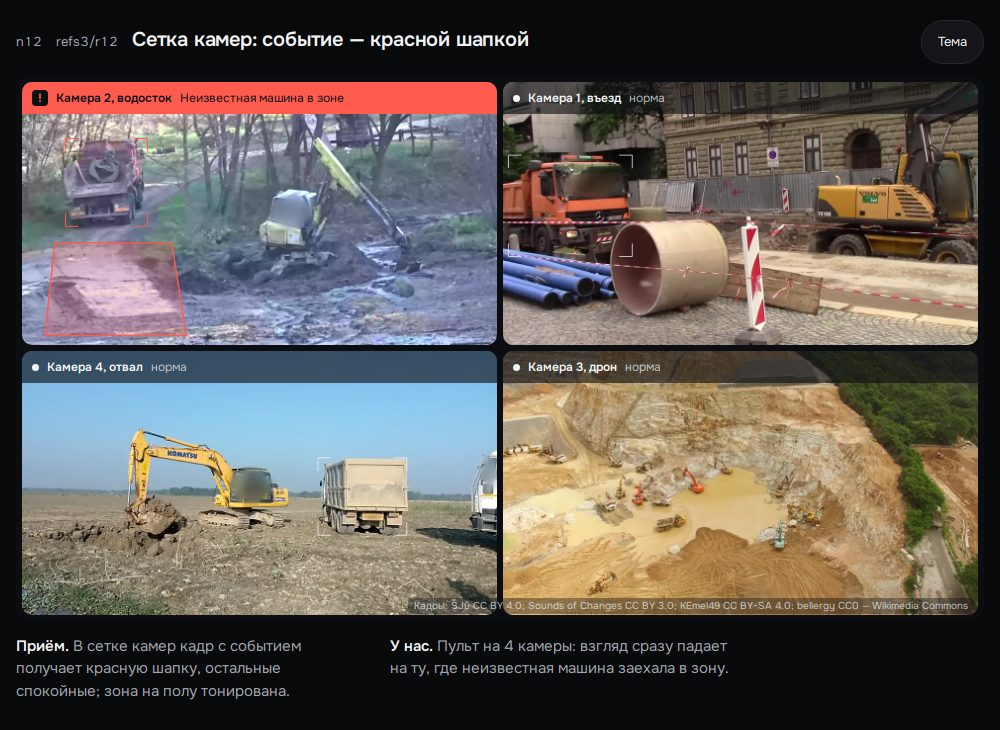
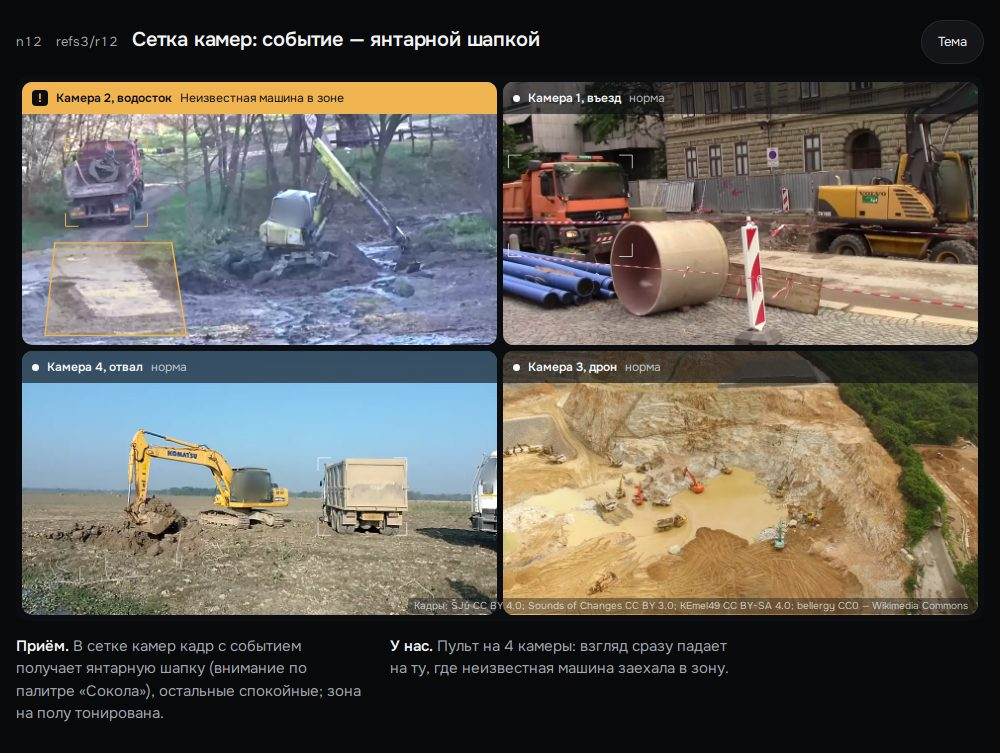
sokol-1f98f0fd: пульт — единая галерея «берём / нет»

diff --git a/sokol-1f98f0fd/pult/refs3/n12.html b/sokol-1f98f0fd/pult/refs3/n12.html
@@ -5,9 +5,9 @@
 <link href="https://fonts.googleapis.com/css2?family=Onest:wght@300..700&display=swap" rel="stylesheet">
 <link rel="stylesheet" href="base.css"></head>
 <body><main class="frag">
-<header class="fh"><span class="ref">n12</span><span class="ref">refs3/r12</span><h1>Сетка камер: событие — красной шапкой</h1><button class="theme" type="button" aria-label="Сменить тему">Тема</button></header>
-<figure class="stage "><style>.stage>.g4{display:grid;grid-template-columns:1fr 1fr;grid-template-rows:1fr 1fr;gap:6px;padding:6px;background:var(--s-bg)}.tl{position:relative;border-radius:10px;overflow:hidden;background:var(--s-bg)}.tv{position:absolute;inset:0}.tv img,.tv svg{position:absolute;inset:0;width:100%;height:100%;object-fit:cover}.th{position:absolute;z-index:2;left:0;right:0;top:0;display:flex;gap:8px;align-items:center;padding:7px 10px;background:var(--s-glass);font-size:12px;color:var(--s-ink-2)}.th b{color:var(--s-ink);font-weight:600}.th .d{width:7px;height:7px;border-radius:50%;background:var(--s-ink)}.th .w{display:inline-grid;place-items:center;width:16px;height:16px;border-radius:4px;background:var(--s-bg);color:var(--s-alert);font:700 12px/1 "Onest",sans-serif;font-style:normal}.al .th{background:var(--s-alert);color:var(--s-bg)}.al .th b{color:var(--s-bg)}</style><div class="layer g4"><div class="tl al"><div class="th"><i class="w">!</i><b>Камера 2, водосток</b><span>Неизвестная машина в зоне</span></div><div class="tv"><img src="img/forest.webp" alt=""><svg viewBox="0 0 960 540"><polygon points="40.0,520.0 330.0,520.0 300.0,330.0 60.0,330.0" class="fal2" /><polygon points="40.0,520.0 330.0,520.0 300.0,330.0 60.0,330.0" class="ka" style="stroke-width:3"/><path d="M82,142V116H108 M224,116H250V142 M250,270V296H224 M108,296H82V270" class="ka"/></svg></div></div><div class="tl"><div class="th"><span class="d"></span><b>Камера 1, въезд</b><span>норма</span></div><div class="tv"><img src="img/site.webp" alt=""><svg viewBox="0 0 960 540"><path d="M4,176V150H30 M232,150H258V176 M258,332V358H232 M30,358H4V332" class="kw"/></svg></div></div><div class="tl"><div class="th"><span class="d"></span><b>Камера 4, отвал</b><span>норма</span></div><div class="tv"><img src="img/field.webp" alt=""><svg viewBox="0 0 960 540"><path d="M600,245V219H626 M756,219H782V245 M782,352V378H756 M626,378H600V352" class="kw"/></svg></div></div><div class="tl"><div class="th"><span class="d"></span><b>Камера 3, дрон</b><span>норма</span></div><div class="tv"><img src="img/drone.webp" alt=""><svg viewBox="0 0 960 540"></svg></div></div></div><figcaption class="lic">Кадры: ŠJů CC BY 4.0; Sounds of Changes CC BY 3.0; KEmel49 CC BY-SA 4.0; bellergy CC0 — Wikimedia Commons</figcaption></figure>
-<section class="note"><p><b>Приём.</b> В сетке камер кадр с событием получает красную шапку, остальные спокойные; зона на полу тонирована.</p><p><b>У нас.</b> Пульт на 4 камеры: взгляд сразу падает на ту, где неизвестная машина заехала в зону.</p></section>
+<header class="fh"><span class="ref">n12</span><span class="ref">refs3/r12</span><h1>Сетка камер: событие — янтарной шапкой</h1><button class="theme" type="button" aria-label="Сменить тему">Тема</button></header>
+<figure class="stage "><style>.stage>.g4{display:grid;grid-template-columns:1fr 1fr;grid-template-rows:1fr 1fr;gap:6px;padding:6px;background:var(--s-bg)}.tl{position:relative;border-radius:10px;overflow:hidden;background:var(--s-bg)}.tv{position:absolute;inset:0}.tv img,.tv svg{position:absolute;inset:0;width:100%;height:100%;object-fit:cover}.th{position:absolute;z-index:2;left:0;right:0;top:0;display:flex;gap:8px;align-items:center;padding:7px 10px;background:var(--s-glass);font-size:12px;color:var(--s-ink-2)}.th b{color:var(--s-ink);font-weight:600}.th .d{width:7px;height:7px;border-radius:50%;background:var(--s-ink)}.th .w{display:inline-grid;place-items:center;width:16px;height:16px;border-radius:4px;background:var(--s-bg);color:var(--s-alert);font:700 12px/1 "Onest",sans-serif;font-style:normal}.tl.al{--s-alert:#F0B451;--s-alert-soft:rgba(240,180,81,.24)}.al .th{background:var(--s-alert);color:var(--s-bg)}.al .th b{color:var(--s-bg)}</style><div class="layer g4"><div class="tl al"><div class="th"><i class="w">!</i><b>Камера 2, водосток</b><span>Неизвестная машина в зоне</span></div><div class="tv"><img src="img/forest.webp" alt=""><svg viewBox="0 0 960 540"><polygon points="40.0,520.0 330.0,520.0 300.0,330.0 60.0,330.0" class="fal2" /><polygon points="40.0,520.0 330.0,520.0 300.0,330.0 60.0,330.0" class="ka" style="stroke-width:3"/><path d="M82,142V116H108 M224,116H250V142 M250,270V296H224 M108,296H82V270" class="ka"/></svg></div></div><div class="tl"><div class="th"><span class="d"></span><b>Камера 1, въезд</b><span>норма</span></div><div class="tv"><img src="img/site.webp" alt=""><svg viewBox="0 0 960 540"><path d="M4,176V150H30 M232,150H258V176 M258,332V358H232 M30,358H4V332" class="kw"/></svg></div></div><div class="tl"><div class="th"><span class="d"></span><b>Камера 4, отвал</b><span>норма</span></div><div class="tv"><img src="img/field.webp" alt=""><svg viewBox="0 0 960 540"><path d="M600,245V219H626 M756,219H782V245 M782,352V378H756 M626,378H600V352" class="kw"/></svg></div></div><div class="tl"><div class="th"><span class="d"></span><b>Камера 3, дрон</b><span>норма</span></div><div class="tv"><img src="img/drone.webp" alt=""><svg viewBox="0 0 960 540"></svg></div></div></div><figcaption class="lic">Кадры: ŠJů CC BY 4.0; Sounds of Changes CC BY 3.0; KEmel49 CC BY-SA 4.0; bellergy CC0 — Wikimedia Commons</figcaption></figure>
+<section class="note"><p><b>Приём.</b> В сетке камер кадр с событием получает янтарную шапку (внимание по палитре «Сокола»), остальные спокойные; зона на полу тонирована.</p><p><b>У нас.</b> Пульт на 4 камеры: взгляд сразу падает на ту, где неизвестная машина заехала в зону.</p></section>
 </main>
 <script>(()=>{const r=document.documentElement,q=new URLSearchParams(location.search).get('theme');if(q)r.dataset.theme=q;
 document.querySelector('.theme').onclick=()=>{const d=r.dataset.theme||(matchMedia('(prefers-color-scheme: dark)').matches?'dark':'light');r.dataset.theme=d==='dark'?'light':'dark'};

diff --git a/sokol-1f98f0fd/pult/index.html b/sokol-1f98f0fd/pult/index.html
@@ -132,9 +132,9 @@ dialog::backdrop{background:rgba(10,11,13,.92)}
 <label class="mixf" hidden><span>С чем совместить</span><input type="text" autocomplete="off" placeholder="например m40 или v4" enterkeyhint="done"></label>
 </div></article></div></section>
 <section id="s-strong"><h2>Мини по референсам <small>сначала 15 сильных</small></h2><div class="grid"><article class="card" id="c-n12" data-id="n12">
-<div class="media"><button type="button" class="shot" data-full="refs3/shots/n12.jpg" aria-label="Снимок крупно"><img loading="lazy" decoding="async" src="refs3/shots/n12.jpg" width="1000" height="730" alt="Снимок n12: Сетка камер: событие — красной шапкой"></button><div class="refs"><div class="rths"><button type="button" class="rth" data-full="refimg/refs3/r12.webp" data-cap="MANTIS · сетка камер, событие красным заголовком" aria-label="Референс r12 крупно"><img loading="lazy" decoding="async" src="refimg/refs3/r12.webp" width="800" height="600" alt="Референс r12: MANTIS · сетка камер, событие красным заголовком"></button></div><p class="rcap"><span>референс</span>MANTIS · сетка камер, событие красным заголовком</p></div></div>
+<div class="media"><button type="button" class="shot" data-full="refs3/shots/n12.jpg" aria-label="Снимок крупно"><img loading="lazy" decoding="async" src="refs3/shots/n12.jpg" width="1000" height="753" alt="Снимок n12: Сетка камер: событие — янтарной шапкой"></button><div class="refs"><div class="rths"><button type="button" class="rth" data-full="refimg/refs3/r12.webp" data-cap="MANTIS · сетка камер, событие красным заголовком" aria-label="Референс r12 крупно"><img loading="lazy" decoding="async" src="refimg/refs3/r12.webp" width="800" height="600" alt="Референс r12: MANTIS · сетка камер, событие красным заголовком"></button></div><p class="rcap"><span>референс</span>MANTIS · сетка камер, событие красным заголовком</p></div></div>
 <div class="body"><div class="head"><span class="id">n12</span></div>
-<h3>Сетка камер: событие — красной шапкой</h3><p class="idea">В сетке камер кадр с событием получает красную шапку, остальные спокойные; зона на полу тонирована.</p><p class="ours"><b>У нас:</b> Пульт на 4 камеры: взгляд сразу падает на ту, где неизвестная машина заехала в зону.</p>
+<h3>Сетка камер: событие — янтарной шапкой</h3><p class="idea">В сетке камер кадр с событием получает янтарную шапку (внимание по палитре «Сокола»), остальные спокойные; зона на полу тонирована.</p><p class="ours"><b>У нас:</b> Пульт на 4 камеры: взгляд сразу падает на ту, где неизвестная машина заехала в зону.</p>
 <div class="links"><a href="refs3/n12.html" target="_blank" rel="noopener">Открыть ↗</a><button type="button" class="lk" data-full="refs3/shots/phone/n12.jpg">Телефон</button></div>
 <div class="vote" role="group" aria-label="Решение по n12"><button type="button" data-v="yes" aria-pressed="false">Берём</button><button type="button" data-v="no" aria-pressed="false">Нет</button><button type="button" data-v="mix" aria-pressed="false">Совместить</button></div>
 <label class="mixf" hidden><span>С чем совместить</span><input type="text" autocomplete="off" placeholder="например m40 или v4" enterkeyhint="done"></label>
